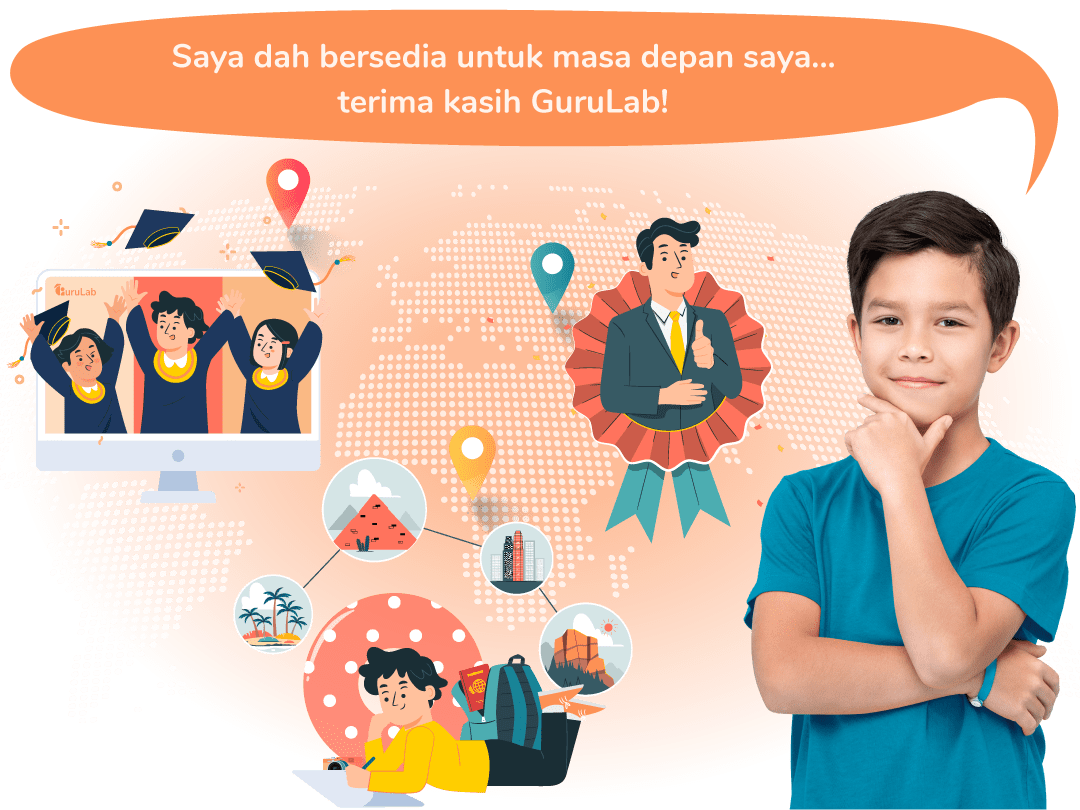
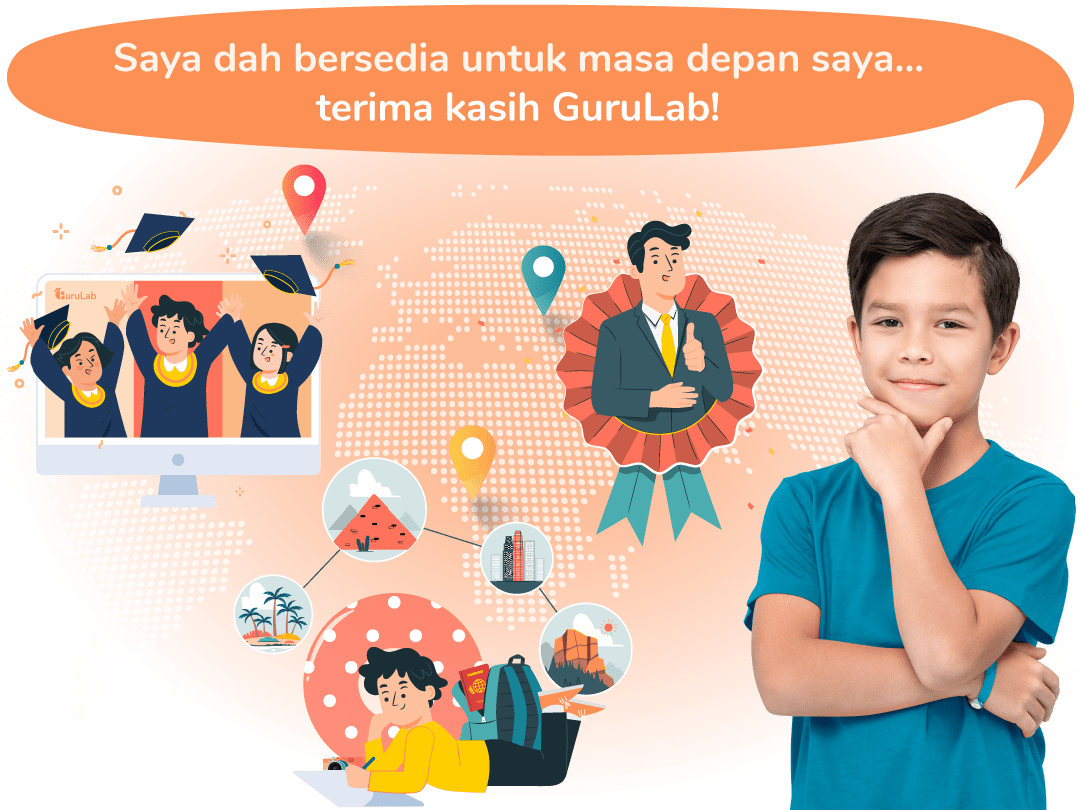
Add new hero image

diff --git a/main.css b/main.css
@@ -14,6 +14,14 @@ Hero
 https://static1.squarespace.com/static/61a4ac42699860277d4bfcf6/t/627b62114ae8e9753a5cb0dd/1652253201356/mobile-home-hero.png
 https://static1.squarespace.com/static/61a4ac42699860277d4bfcf6/t/627b620c7cc1235bdf61e522/1652253197482/desktop-home-hero.png
 
+Why Gurulab Hero (EN)
+https://static1.squarespace.com/static/61a4ac42699860277d4bfcf6/t/62a7578f6d15d13ddfe92a6f/1655134096701/desktop-whygurulab-hero-en.png
+https://static1.squarespace.com/static/61a4ac42699860277d4bfcf6/t/62a83c1856f7fa161ce5ed29/1655192601328/mobile-whygurulab-hero-en.png
+
+Why Gurulab Hero (BM)
+https://static1.squarespace.com/static/61a4ac42699860277d4bfcf6/t/62a7578d643f9159e96c8302/1655134094802/desktop-whygurulab-hero-bm.png
+https://static1.squarespace.com/static/61a4ac42699860277d4bfcf6/t/62a83c16e840715e7e16814f/1655192599491/mobile-whygurulab-hero-bm.png
+
 ---
 
 News Logos

diff --git a/html/aboutus/whygurulab/bm/heroimage.html b/html/aboutus/whygurulab/bm/heroimage.html
@@ -8,7 +8,7 @@
   <img
     loading="lazy"
     class="whygurulab-hero-mobile"
-    src="https://static1.squarespace.com/static/61a4ac42699860277d4bfcf6/t/62a757914324e05033291e7f/1655134099007/mobile-whygurulab-hero-bm.png"
+    src="https://static1.squarespace.com/static/61a4ac42699860277d4bfcf6/t/62a83c16e840715e7e16814f/1655192599491/mobile-whygurulab-hero-bm.png"
     alt=""
   />
 </div>

diff --git a/html/aboutus/whygurulab/heroimage.html b/html/aboutus/whygurulab/heroimage.html
@@ -8,7 +8,7 @@
   <img
     loading="lazy"
     class="whygurulab-hero-mobile"
-    src="https://static1.squarespace.com/static/61a4ac42699860277d4bfcf6/t/62a757e613d56c5de348e091/1655134183051/mobile-whygurulab-hero-en.png"
+    src="https://static1.squarespace.com/static/61a4ac42699860277d4bfcf6/t/62a83c1856f7fa161ce5ed29/1655192601328/mobile-whygurulab-hero-en.png"
     alt=""
   />
 </div>
